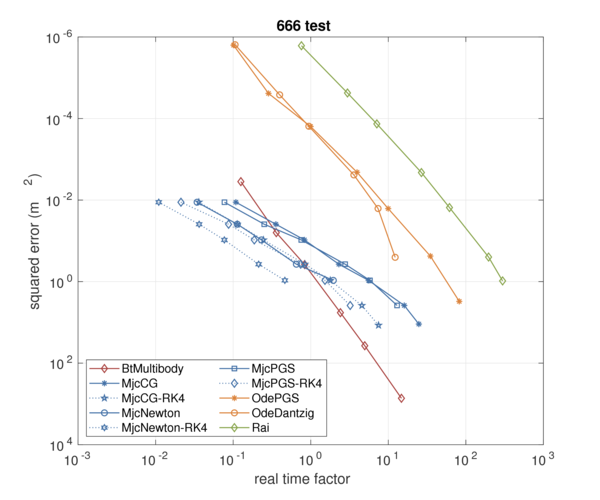
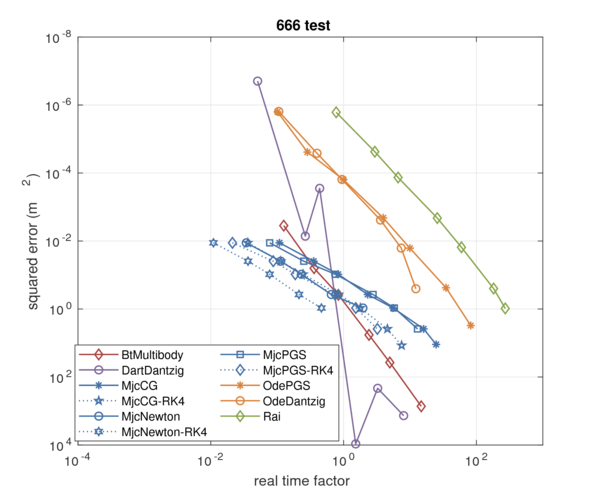
- dart 666, elastic-666 plot changed

diff --git a/docs/index.html b/docs/index.html
@@ -326,15 +326,15 @@ In both cases, there is a speed-accuracy trade-off: accurate simulation requires
             <td>+</td>
             <td>++</td>
             <td>+</td>
-            <td><font color="red">x</font></td>
+            <td>+</td>
         </tr>
         <tr>
             <th>Elastic 666</th>
-            <td><font color="green">+++</font></td>
-            <td>+</td>
+            <td><font color="green">++++</font></td>
             <td>++</td>
+            <td>+++</td>
             <td><font color="red">-</font></td>
-            <td><font color="red">x</font></td>
+            <td>+</td>
         </tr>
         <tr>
             <th>ANYmal PD</th>
@@ -382,7 +382,7 @@ In both cases, there is a speed-accuracy trade-off: accurate simulation requires
     <li>more + is better
     <li><font color="green"><b>+</b></font>: best results
     <li><font color="red">-</font>: cannot simulate due to inaccurate model or excepted
-    <li><font color="red">x</font>: simulation fails due to a software error
+    <!--<li><font color="red">x</font>: simulation fails due to a software error-->
 </ul>
 </p>
 

diff --git a/etc/matlab/plot-gen/sixsixsix.m b/etc/matlab/plot-gen/sixsixsix.m
@@ -55,14 +55,14 @@ plotSpec = plotspec;
 %% error plot
 % plot option
 erpN = plotoption;
-erpN.DARTDANTZIGDART = false;
+erpN.DARTDANTZIGDART = true;
 erpN.DARTPGSDART = false;
 % erpN.MUJOCOCGRK4 = false;
 % erpN.MUJOCONEWTONRK4 = false;
 % erpN.MUJOCOPGSRK4 = false;
 
 erpY = plotoption;
-erpY.DARTDANTZIGDART = false;
+erpY.DARTDANTZIGDART = true;
 erpY.DARTPGSDART = false;
 erpY.MUJOCOCGRK4 = false;
 erpY.MUJOCONEWTONRK4 = false;
@@ -109,6 +109,7 @@ text(1:length(speed), ...
     'horiz','center', ...
     'FontWeight','bold');
 ylabel(sprintf('timestep per second (kHz)'))
+ylim([0, 9])
 % saveas(h, strcat('666-plots/speedbar.png'))
 % saveas(h, strcat('666-plots/speedbar.eps'), 'epsc')
 % saveas(h, strcat('666-plots/speedbar.fig'), 'fig')
@@ -187,7 +188,7 @@ hold off
 title(['666 test'])
 xlabel('real time factor')
 ylabel('squared error (m^2)')
-xlim([10^-3 10^3])
+xlim([10^-4 10^3])
 lgd = legend('Location', 'southwest');
 lgd.NumColumns = 2;
 % saveas(h, strcat('666-plots/error-speed', fileName, '.png'))

diff --git a/etc/matlab/plot-gen/sixsixsix_elastic.m b/etc/matlab/plot-gen/sixsixsix_elastic.m
@@ -54,8 +54,8 @@ plotSpec = plotspec;
 %% error plot
 % plot option
 erpN = plotoption;
-erpN.DARTDANTZIGDART = false;
-erpN.DARTPGSDART = false;
+erpN.DARTDANTZIGDART = true;
+erpN.DARTPGSDART = true;
 erpN.MUJOCOCGEULER = false;
 erpN.MUJOCONEWTONEULER = false;
 erpN.MUJOCOPGSEULER = false;
@@ -93,8 +93,8 @@ T2 = sortrows(T2, 8);
 speed = numIter ./ T2.TIME ./ 1000;
 
 barOption = plotoption;
-barOption.DARTDANTZIGDART = false;
-barOption.DARTPGSDART = false;
+barOption.DARTDANTZIGDART = true;
+barOption.DARTPGSDART = true;
 
 disp('plotting bar graph')
 h = figure('Name', 'speed', 'Position', [0, 0, 600, 500]);
